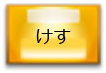
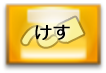
fix MIKIRE problem.

Changed region(s): [[0.1698, 0.2192, 0.8208, 0.6849]]

diff --git a/script/class/story/previewScreen/PreviewFrame.js b/script/class/story/previewScreen/PreviewFrame.js
@@ -43,17 +43,36 @@ var PreviewFrame = enchant.Class.create(enchant.Sprite, {
 			var topY = PREVIEWSCREEN_TOP_Y;
 			var bottomY = PREVIEWSCREEN_BOTTOM_Y;
 			var leftOffset = 10;
-			var rightOffset = -this._parent._selectedIllust.width - 10;
+			var rightOffset = - 10;
 			var topOffset = 10;
-			var bottomOffset = -this._parent._selectedIllust.height - 10;
+			var bottomOffset = - 10;
 			var mouseOverX = this._mouseOverX(clientX, leftX, rightX, leftOffset, rightOffset);
 			var mouseOverY = this._mouseOverY(clientY, topY, bottomY, topOffset, bottomOffset);
 			if(mouseOverX === true && mouseOverY === true) {
-				this._parent._setSelectedIllustX(clientX);
-				this._parent._setSelectedIllustY(clientY);
+				var selectedIllustWidth = this._parent._selectedIllust.width;
+				var selectedIllustHeight = this._parent._selectedIllust.height;
+				if((clientX >= rightX + rightOffset - selectedIllustWidth && clientX <= rightX + rightOffset) && (clientY >= bottomY + bottomOffset - selectedIllustHeight && clientY <= bottomY + bottomOffset)) {
+					this._parent._setSelectedIllustX(rightX + rightOffset - selectedIllustWidth);
+					this._parent._setSelectedIllustY(bottomY + bottomOffset - selectedIllustHeight);
+				} else if(clientY >= bottomY + bottomOffset - selectedIllustHeight && clientY <= bottomY + bottomOffset) {
+					this._parent._setSelectedIllustX(clientX);
+					this._parent._setSelectedIllustY(bottomY + bottomOffset - selectedIllustHeight);
+				} else if(clientX >= rightX + rightOffset - selectedIllustWidth && clientX <= rightX + rightOffset) {
+					this._parent._setSelectedIllustX(rightX + rightOffset - selectedIllustWidth);
+					this._parent._setSelectedIllustY(clientY);
+				} else {
+					this._parent._setSelectedIllustX(clientX);
+					this._parent._setSelectedIllustY(clientY);
+				}
 				this._parent._addSelectedIllustToStoryScene();
+				this._parent._setHaveSelectedIllust(true);
 			} else {
-				this._parent._removeSelectedIllustFromStoryScene();
+				var haveSelectedIllust = this._parent._getHaveSelectedIllust();
+				if(haveSelectedIllust === true) {
+					this._parent._addSelectedIllustToStoryScene();
+				} else {
+					this._parent._removeSelectedIllustFromStoryScene();
+				}
 			}
 		}
 	},

diff --git a/script/class/story/previewScreen/SelectedImage.js b/script/class/story/previewScreen/SelectedImage.js
@@ -34,8 +34,32 @@ var SelectedImage = enchant.Class.create(enchant.Sprite, {
 		var focusPath = this._focusPath;
 		var width = this.width;
 		var height = this.height;
-		var x = clientX;
-		var y = clientY;
+		var x;
+		var y;
+
+		var leftX = PREVIEWSCREEN_LEFT_X;
+		var rightX = PREVIEWSCREEN_RIGHT_X;
+		var topY = PREVIEWSCREEN_TOP_Y;
+		var bottomY = PREVIEWSCREEN_BOTTOM_Y;
+		var leftOffset = 10;
+		var rightOffset = - 10;
+		var topOffset = 10;
+		var bottomOffset = - 10;
+		var selectedIllustWidth = this.width;
+		var selectedIllustHeight = this.height;
+		if((clientX >= rightX + rightOffset - selectedIllustWidth && clientX <= rightX + rightOffset) && (clientY >= bottomY + bottomOffset - selectedIllustHeight && clientY <= bottomY + bottomOffset)) {
+			x = rightX + rightOffset - selectedIllustWidth;
+			y = bottomY + bottomOffset - selectedIllustHeight;
+		} else if(clientY >= bottomY + bottomOffset - selectedIllustHeight && clientY <= bottomY + bottomOffset) {
+			x = clientX;
+			y = bottomY + bottomOffset - selectedIllustHeight;
+		} else if(clientX >= rightX + rightOffset - selectedIllustWidth && clientX <= rightX + rightOffset) {
+			x = rightX + rightOffset - selectedIllustWidth;
+			y = clientY;
+		} else {
+			x = clientX;
+			y = clientY;
+		}
 		this._parent._removeSelectedIllustFromStoryScene();
 		this._parent._destroySelectedIllust();
 		this._parent._createIllust(imagePath, focusPath, width, height, x, y);
@@ -43,5 +67,6 @@ var SelectedImage = enchant.Class.create(enchant.Sprite, {
 		this._parent._setCanPushMusicButton();
 		this._parent._setCanPushAllIllustButton();
 		this._parent._setCanPushRemoveButton();
+		this._parent._setHaveSelectedIllust(false);
 	},
 })

diff --git a/script/class/story/previewScreen/PreviewScreen.js b/script/class/story/previewScreen/PreviewScreen.js
@@ -5,6 +5,7 @@ var PreviewScreen = enchant.Class.create({
 		this._weather = null;
 		this._illust = new Array();
 		this._selectedIllust = null;
+		this._haveSelectedIllust = false;
 		this._removeButton = null;
 		this._parent = parent;
 	},
@@ -134,6 +135,15 @@ var PreviewScreen = enchant.Class.create({
 	// 選択された半透明画像のy座標をセット
 	_setSelectedIllustY : function(y) {
 		this._selectedIllust.y = y;
+	},
+
+	// プレビュー画面の中に半透明イラストがあるかを示すフラグをゲット
+	_getHaveSelectedIllust : function() {
+		return this._haveSelectedIllust;
+	},
+	// プレビュー画面の中に半透明イラストがあるかを示すフラグをセット
+	_setHaveSelectedIllust : function(haveSelectedIllust) {
+		this._haveSelectedIllust = haveSelectedIllust;
 	},
 
 	// 重なり判定

diff --git a/css/muphic.css b/css/muphic.css
@@ -1,3 +1,3 @@
 #finger {
-	cursor: url("../image/mouse/cursorOff.png"), default;
+	cursor: url("../image/mouse/cursorOff.cur"), default;
 }
